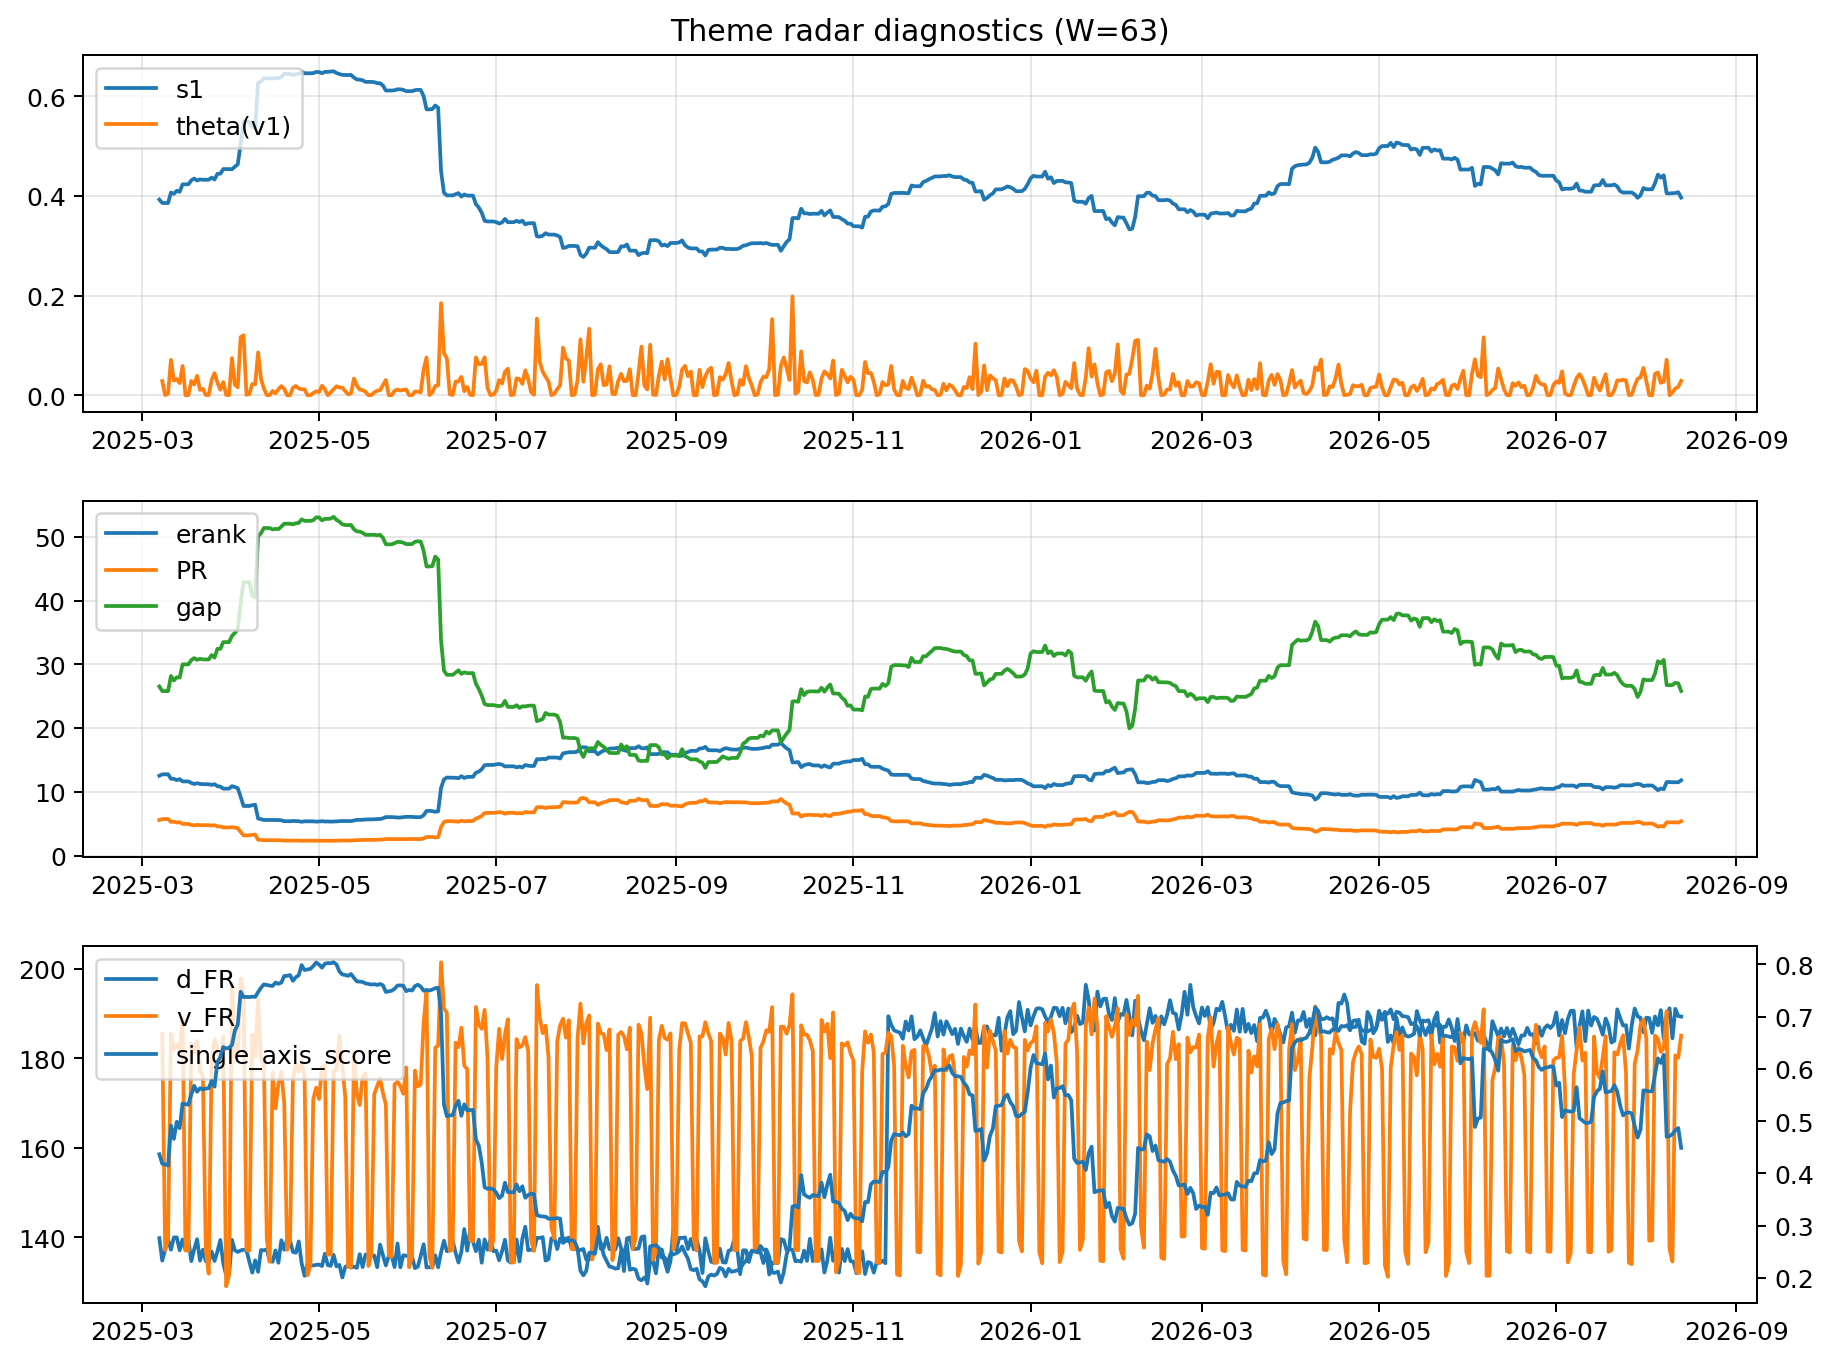
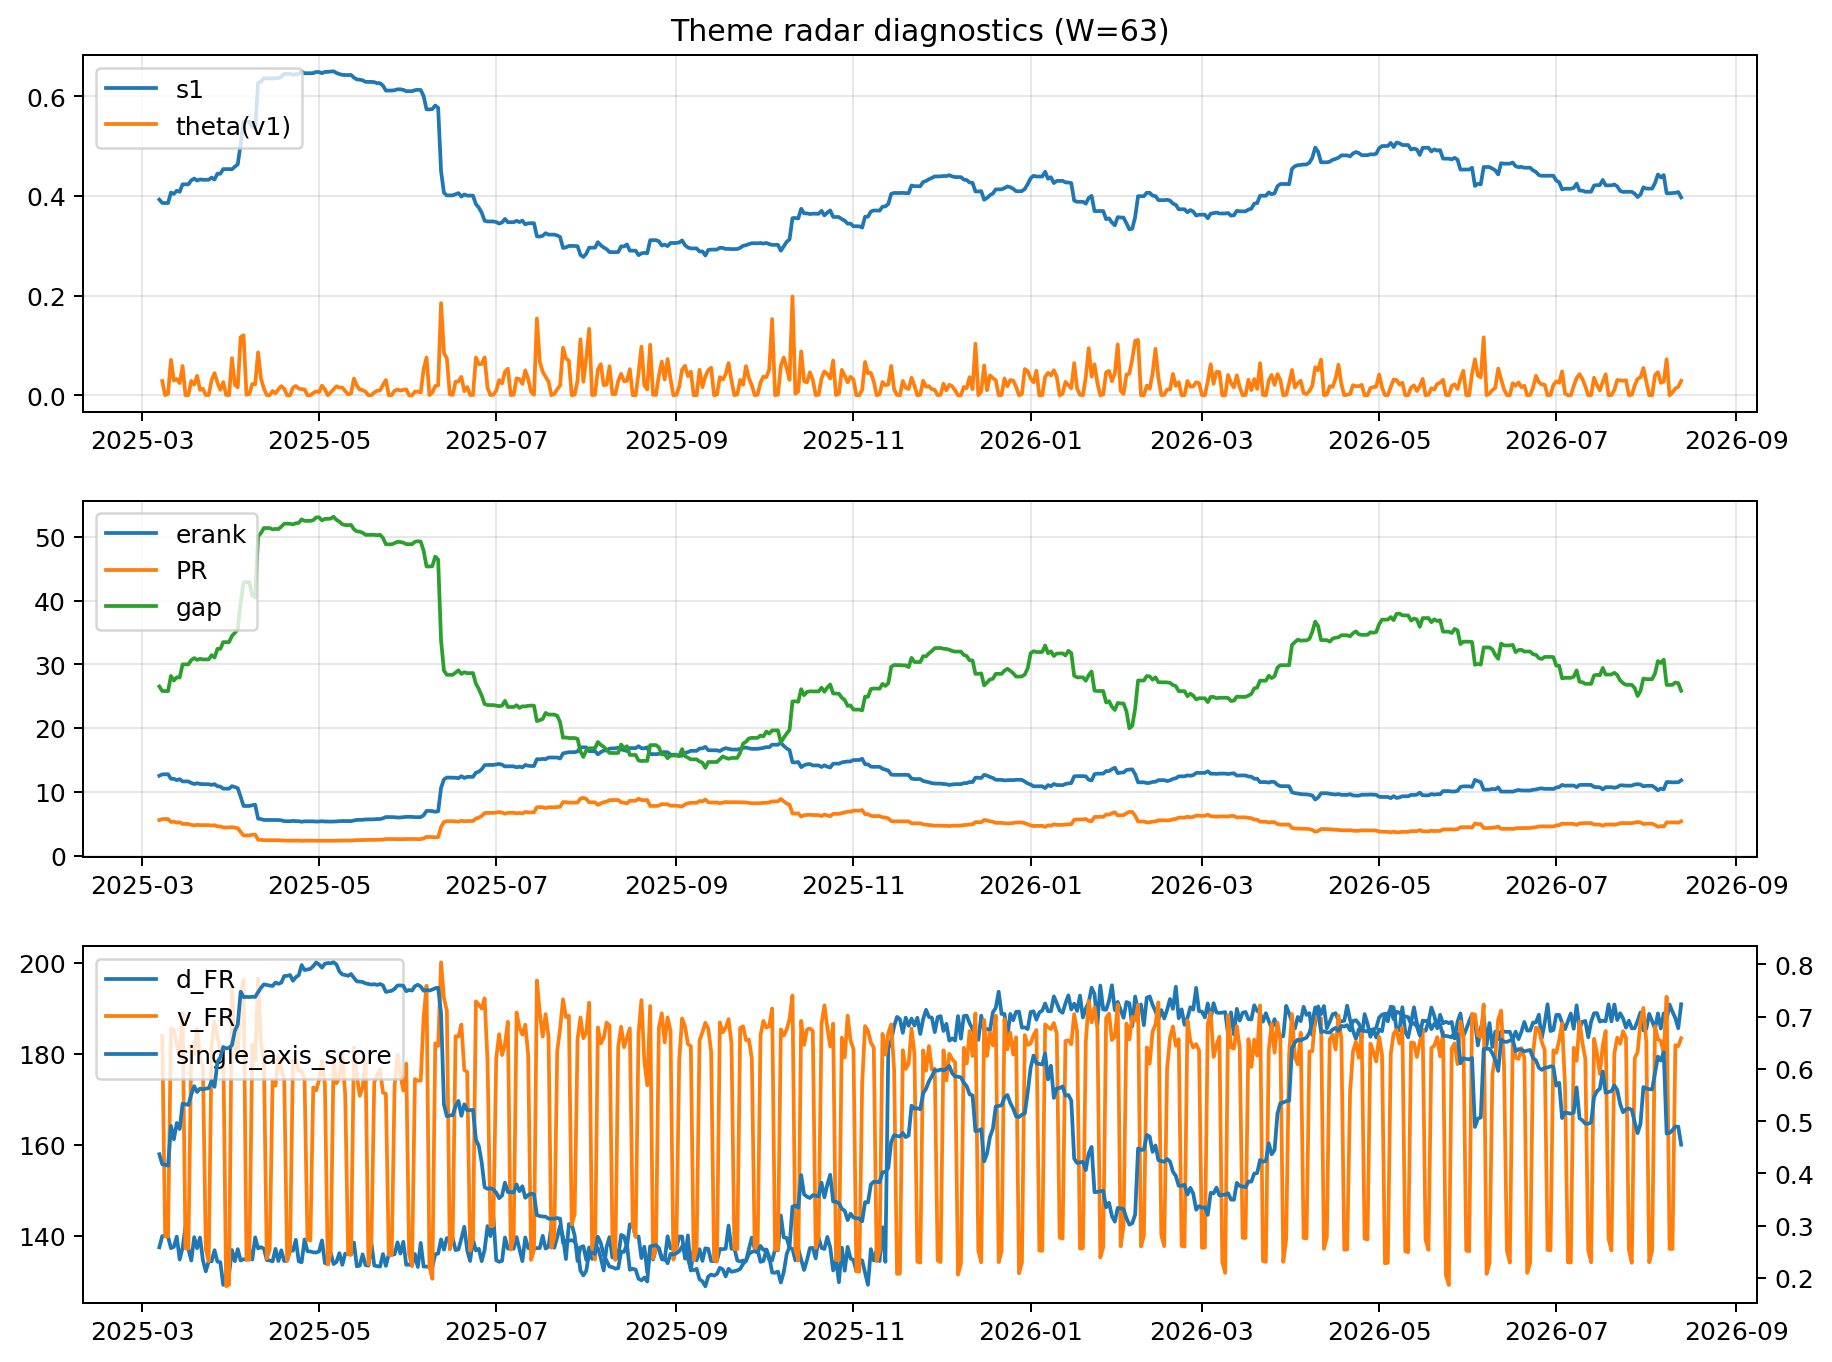
log: 2026-08-13 | sha256:110ad08645e745a6fbb314bdd0cae538033a65b717c41ff5b75e13ccdee68840

diff --git a/logs/2026-08-13.md b/logs/2026-08-13.md
@@ -3,52 +3,52 @@
 ![diagnostic W63](../assets/diagnostic/2026-08-13_W63.png)
 
 ## Leaders (v1) — W=63
-- **Nuclear_Uranium** (0.0886979823824275)
-- Semis (0.0726675628390189)
-- Quantum (0.0608024501011901)
+- **Nuclear_Uranium** (0.0881768733236376)
+- Semis (0.0729703578293701)
+- Quantum (0.0608172104176585)
 
 ## Challengers — W=63
-**v2:** Semis (0.0814932364083913), Rates (0.077473967219313), Software_Cloud (0.0749962945407605)
-**v3:** MegaCap_AI (0.0872344848219327), DataCenter_Infra (0.0841027820044804), Software_Cloud (0.0785777616975329)
+**v2:** Semis (0.0810620941632954), Rates (0.0778925267013013), Software_Cloud (0.0747027167820331)
+**v3:** MegaCap_AI (0.0868639144288822), Software_Cloud (0.0833997120239263), DataCenter_Infra (0.0824315142879801)
 
 ## Migration (20D slope) — W=63
 **Top risers:**
-- axis_Commodities: 0.0006011384410325
-- axis_DataCenter_Infra: 0.0002378141968251
-- axis_Semis: 0.0002235369507899
-- axis_Grid_Power: 0.0001838282180084
-- axis_Quantum: 0.0001715286625359
-- axis_Cyber: 0.0001711156946748
-- axis_Sector_Energy: 0.0001662452623603
-- axis_Defense: 0.0001599277079969
-- axis_Space: 0.0001266724158613
-- axis_Genomics_Bio: 0.0001106694692491
+- axis_Commodities: 0.0005621823561952
+- axis_Semis: 0.0002524824814183
+- axis_DataCenter_Infra: 0.0002336231670455
+- axis_Grid_Power: 0.0001843664856787
+- axis_Quantum: 0.0001830483759423
+- axis_Cyber: 0.0001694150074092
+- axis_Sector_Energy: 0.0001659670349195
+- axis_Defense: 0.0001564143331759
+- axis_Space: 0.0001286557985908
+- axis_Sector_Fin: 9.696206374974458e-05
 
 **Top fallers:**
-- axis_Sector_ConsStap: -9.104369787783514e-05
-- axis_Sector_Comm: -0.0001147176985133
-- axis_USD: -0.0001473057730327
-- axis_Vol: -0.0001526103003652
-- axis_Crypto: -0.0001535095888081
-- axis_Critical_Minerals: -0.0001635099355384
-- axis_MegaCap_AI: -0.0002038428013591
-- axis_Miners: -0.0002292724049562
-- axis_Rates: -0.0004137383448519
-- axis_Metals: -0.0005363981574001
+- axis_Credit: -0.0001364000655882
+- axis_Vol: -0.0001451204026765
+- axis_USD: -0.0001460264086175
+- axis_Crypto: -0.0001540209112253
+- axis_Critical_Minerals: -0.0001545047040306
+- axis_Sector_Comm: -0.0001600028487009
+- axis_MegaCap_AI: -0.0001990900328794
+- axis_Miners: -0.0002236319697625
+- axis_Rates: -0.0004150801194851
+- axis_Metals: -0.0005235557673254
 
 ## Risk line (W=63)
-- s1: 0.3966277541690501
-- theta_v1: 0.0288270094391452
-- v_FR: 185.04174227157927
-- single_axis_score: 0.4487619047619048
+- s1: 0.3970634659109968
+- theta_v1: 0.0289380973207895
+- v_FR: 183.4497736649932
+- single_axis_score: 0.4548571428571428
 
 ## Interpretation
 **Regime:** `theme_migration`
 
-- Action: Tomorrow watchlist: Commodities, DataCenter_Infra, Semis, Grid_Power, Quantum + v2_top1=Semis
+- Action: Tomorrow watchlist: Commodities, Semis, DataCenter_Infra, Grid_Power, Quantum + v2_top1=Semis
 - Action: Hedge note: normal correlation stability.
 
-- Percentiles (W=63 history): vfr_pct=0.77, theta_pct=0.64, s1_pct=0.39, score_pct=0.41.
+- Percentiles (W=63 history): vfr_pct=0.67, theta_pct=0.65, s1_pct=0.39, score_pct=0.41.
 
 ---
[2 lines of base64/hex data omitted]
